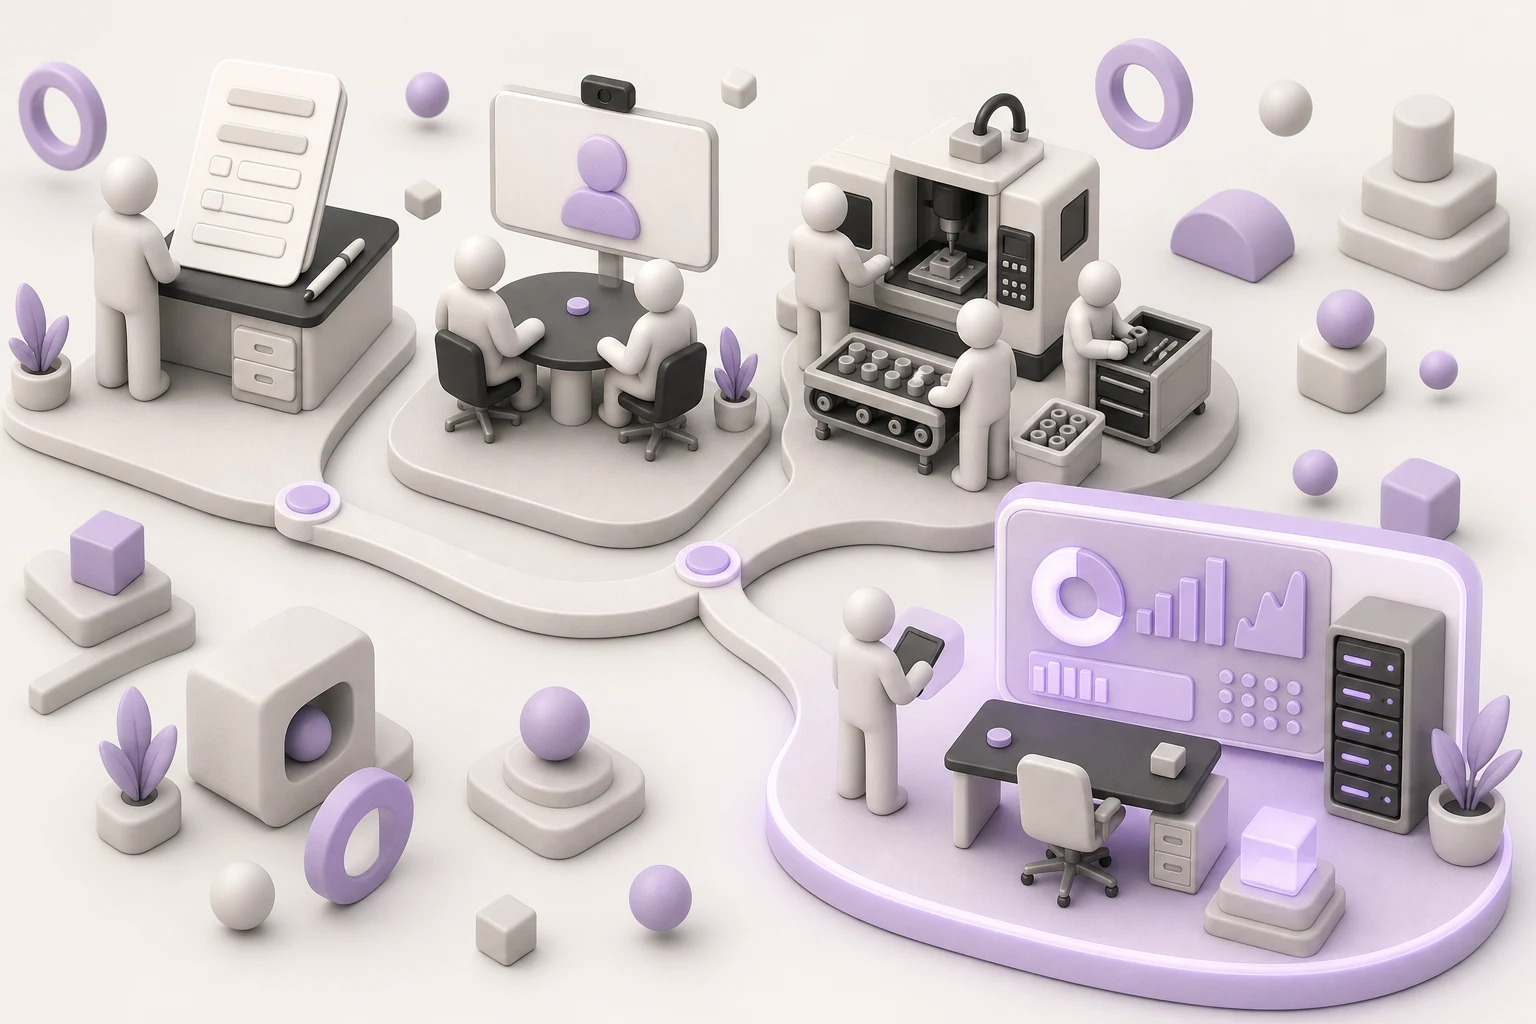
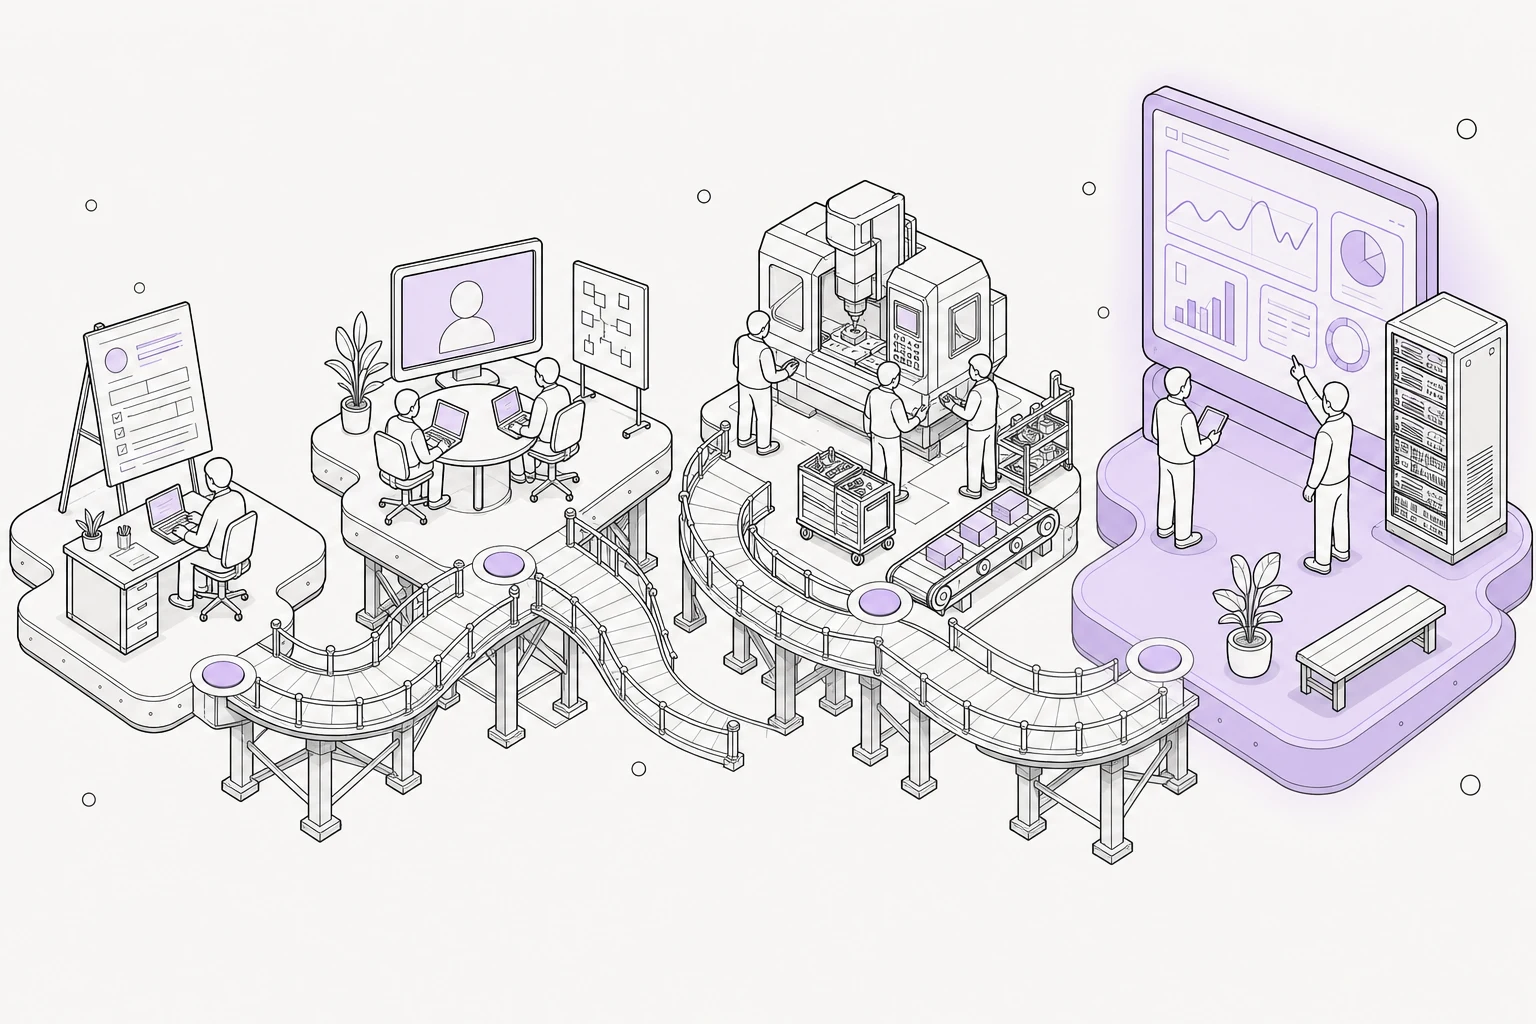
fix: 프로세스 이미지 3D 렌더 폐기 — 사이트 통일 스케치(아이소메트릭 라인아트) 스타일로 재제작
- 4단계(신청 데스크·화상미팅·CNC 워크숍·대시보드 워크스페이스)를 밀도 있는 라인아트로, 라벤더 액센트 유지

diff --git a/talos/index.html b/talos/index.html
@@ -315,7 +315,7 @@
         <p class="overline reveal">Process</p>
         <h2 class="reveal">신청부터 파일럿까지,<br /><strong>군더더기 없이</strong></h2>
         <div class="section-visual reveal">
-          <img src="/assets/journey.webp" alt="4단계 여정 3D 렌더 — 신청 데스크, 화상 미팅, CNC 현장 워크숍, 라벤더 빛의 대시보드 워크스페이스가 하나의 경로로 이어짐" width="1536" height="1024" loading="lazy" />
+          <img src="/assets/journey.webp" alt="4단계 여정 아이소메트릭 도식 — 신청 데스크, 화상 미팅, CNC 현장 워크숍, 라벤더 빛의 대시보드 워크스페이스가 다리로 이어짐" width="1536" height="1024" loading="lazy" />
         </div>
         <ol class="timeline reveal">
           <li>
